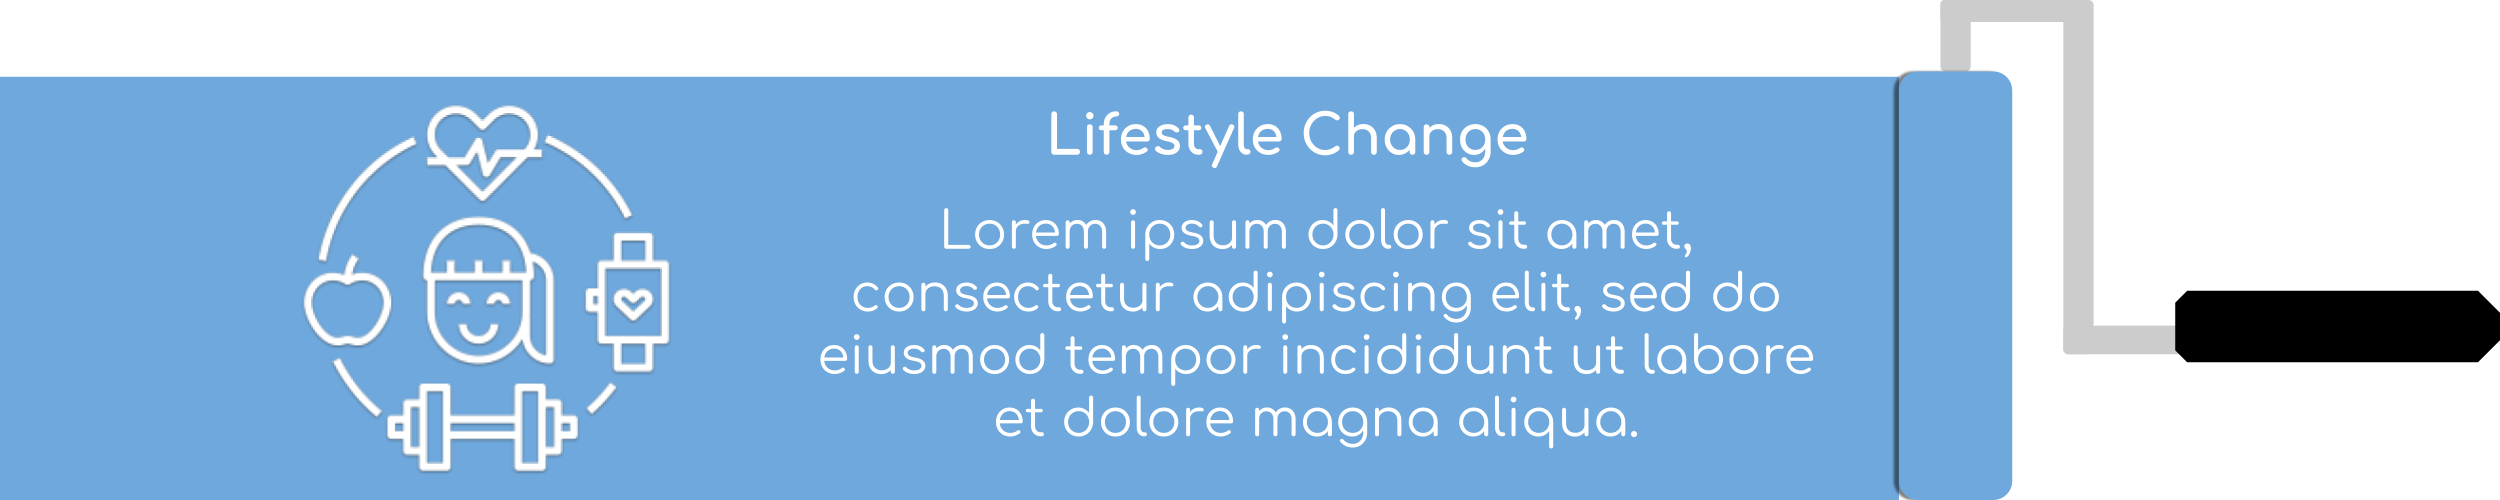
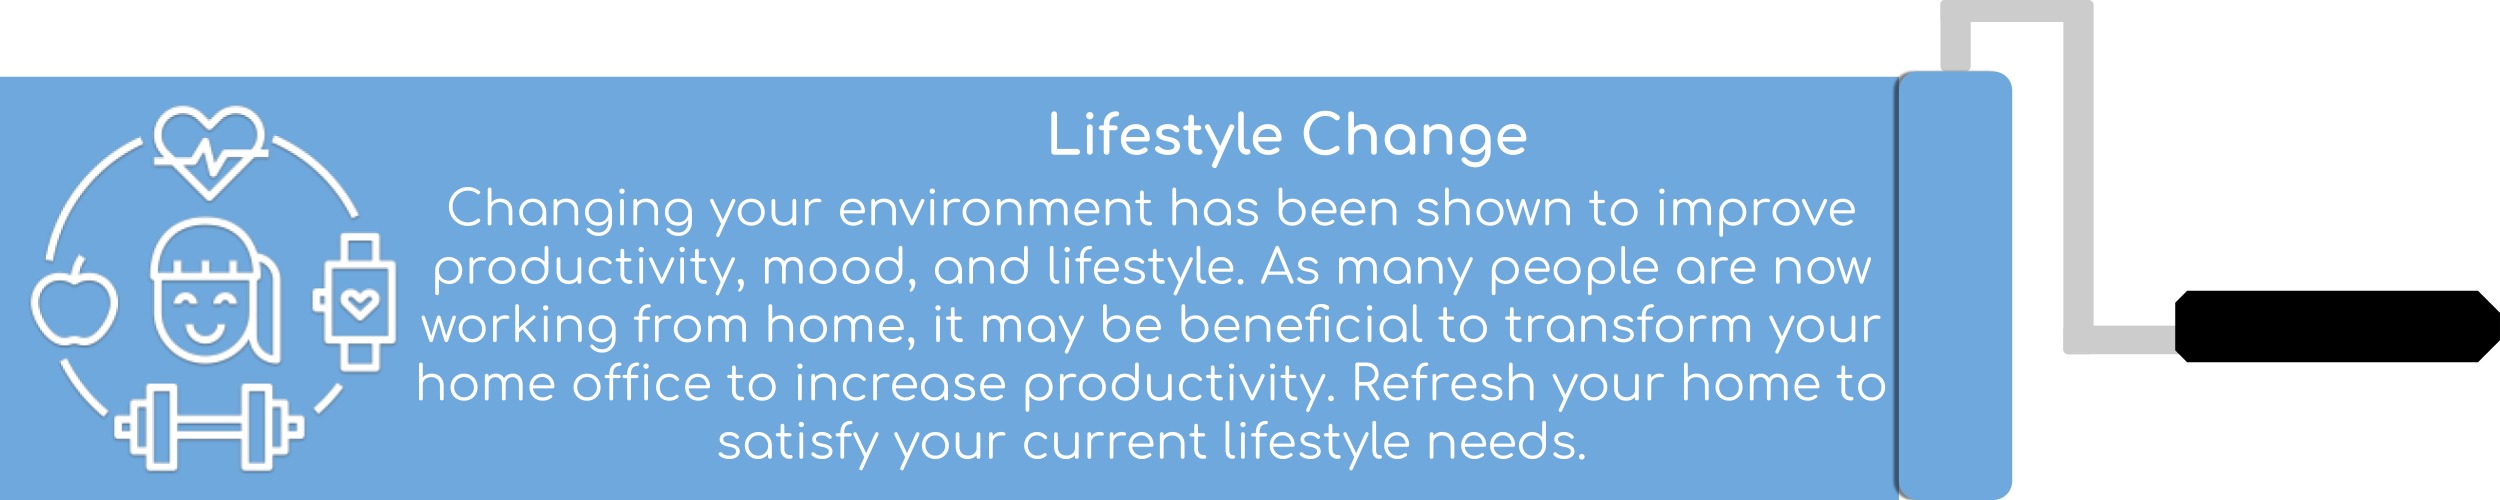
Add files via upload

Changed region(s): [[0.0, 0.21, 0.7488, 0.96]]

diff --git a/index.html b/index.html
@@ -100,19 +100,19 @@ body, html {
       <img src="./images/brush_icon.png" class="w3-margin-bottom w3-jumbo w3-center" style="width:100px;height:100px;">
       <p class="w3-large">Painting</p>
       <p class="w3-medium">Exterior/Interior</p>
-      <p>Lorem ipsum dolor sit amet, consectetur adipiscing elit, sed do eiusmod tempor incididunt ut labore et dolore.</p>
+      <p>Painting is an affordable method to modify the appearance and style of any room. We paint anything, you name it - and we will paint it for both commercial/residential and interior/exterior. Let us transform your property to gain that stunning appearance you are imagining.</p>
     </div>
     <div class="w3-third">
       <img src="./images/hammer_icon.png" class="w3-margin-bottom w3-jumbo w3-center" style="width:100px;height:100px;">
       <p class="w3-large">Remodeling</p>
       <p class="w3-medium">Kitchen/Bathroom</p>
-      <p>Lorem ipsum dolor sit amet, consectetur adipiscing elit, sed do eiusmod tempor incididunt ut labore et dolore.</p>
+      <p>Are you looking to remodel your property? Perhaps you are looking to renovate your home office? We can remodel anything to make your ideas become a reality. Take the first step and call us today for a free estimate on your project.</p>
     </div>
     <div class="w3-third">
       <img src="./images/appliance_icon.png" class="w3-margin-bottom w3-jumbo w3-center" style="width:100px;height:100px;">
       <p class="w3-large">Appliances</p>
       <p class="w3-medium">Install/Fix</p>
-      <p>Lorem ipsum dolor sit amet, consectetur adipiscing elit, sed do eiusmod tempor incididunt ut labore et dolore.</p>
+      <p>We install appliances of all sorts like ceiling fans, fridges, washing machines, etc.</p>
     </div>
   </div>
 </div>
@@ -136,7 +136,7 @@ body, html {
             <i class="fa fa-dollar w3-margin-bottom w3-jumbo w3-center"></i>
             <div class="w3-container">
               <h3>Increase Your Home's Value</h3>
-              <p>Lorem ipsum dolor sit amet, consectetur adipiscing elit, sed do eiusmod tempor incididunt ut labore et dolore.</p>
+              <p>For those who remodel, the average payback in a home’s resale value is 56 percent of the cost of the remodel, but for those who replaced things like garage doors or windows, the payback is a much higher 75 percent.</p>
           </div>
           </center>
         </div>
@@ -147,7 +147,7 @@ body, html {
             <i class="fa fa-smile-o w3-margin-bottom w3-jumbo w3-center"></i>
             <div class="w3-container">
               <h3>Lifestyle Change</h3>
-              <p>Lorem ipsum dolor sit amet, consectetur adipiscing elit, sed do eiusmod tempor incididunt ut labore et dolore.</p>
+              <p>Changing your environment has been shown to improve productivity, mood, and lifestyle. As many people are now working from home, it may be beneficial to transform your home office to increase productivity. Refresh your home to satisfy your current lifestyle needs.</p>
 
           </div>
         </center>
@@ -164,18 +164,20 @@ body, html {
   <h3 class="w3-center w3-xxlarge w3-hide-small"><b><a style="color:#f1c232">——— </a>ABOUT US<a style="color:#f1c232"> ———</a></b></h3>
   <h3 class="w3-center w3-xlarge w3-hide-large w3-hide-medium"><b><a style="color:#f1c232">— </a>ABOUT US <a style="color:#f1c232"> —</a></b></h3>
 
-  <center><p>Lorem ipsum dolor sit amet, consectetur adipiscing elit, sed do eiusmod<br>
-  tempor incididunt ut labore et dolore.</p>
-  <p>Lorem ipsum dolor sit amet, consectetur adipiscing elit, sed do eiusmod<br>
-  tempor incididunt ut labore et dolore.</p></center>
+  <div class="w3-hide-small" >
+    <center><p style="padding:50px 200px">Mario's Remodeling & Painting has proudly served San Antonio for 14 years. Within our years as a company, we have worked with commercial and residential clients on different projects in remodeling and painting. We strive to deliver an excellent final product to all of our customers while making it affordable for you, the customer. We can transform any property and give it a fresh or new look.</p></center>
+  </div>
 
+  <div class="w3-hide-large w3-hide-medium" >
+    <center><p>Mario's Remodeling & Painting has proudly served San Antonio for 14 years. Within our years as a company, we have worked with commercial and residential clients on different projects in remodeling and painting. We strive to deliver an excellent final product to all of our customers while making it affordable for you, the customer. We can transform any property and give it a fresh or new look.</p></center>
+  </div>
   <center>
     <div class="w3-card w3-hide-small" style = "width:30%;height:30%;">
       <img src="./images/person-placeholder.jpeg" alt="Owner" style="width:50%;height:50%;">
       <div class="w3-container">
         <h3>Mario De Jesus</h3>
         <p class="w3-opacity">Owner</p>
-        <p>Phasellus eget enim eu lectus faucibus vestibulum. Suspendisse sodales pellentesque elementum.</p>
+        <p>My name is Mario De Jesus - I am the owner of Mario's Remodeling & Painting. I created this company to provide others with an opportunity to improve their home at an affordable price. I have been working in the home improvement industry for over 15 years. I began as a maintenance worker at an apartment complex, where I would fix and make improvements. I was always fascinated to see the final product, and I loved developing my skills further to do more elaborate projects. In my free time, I love to grill and play soccer.</p>
       </div>
 
     </div>
@@ -185,7 +187,7 @@ body, html {
       <div class="w3-container">
         <h3>Mario De Jesus</h3>
         <p class="w3-opacity">Owner</p>
-        <p>Phasellus eget enim eu lectus faucibus vestibulum. Suspendisse sodales pellentesque elementum.</p>
+        <p>My name is Mario De Jesus - I am the owner of Mario's Remodeling & Painting. I created this company to provide others with an opportunity to improve their home at an affordable price. I have been working in the home improvement industry for over 15 years. I began as a maintenance worker at an apartment complex, where I would fix and make improvements. I was always fascinated to see the final product, and I loved developing my skills further to do more elaborate projects. In my free time, I love to grill and play soccer.</p>
       </div>
 
     </div>
@@ -224,7 +226,7 @@ body, html {
               <i class="fa fa-phone w3-margin-bottom w3-jumbo w3-center"></i>
               <div class="w3-container">
                 <p>Phone Number: (210) 240-2662</p>
-                <p><button class="w3-button w3-block" style="background-color:#f1c232;width:50%;height:50%;">Call Us</button></p>
+                <p><a href="tel:2103075408"><button class="w3-button w3-block" style="background-color:#f1c232;width:50%;height:50%;">Call Us</button></a></p>
             </div>
             </center>
           </div>
@@ -235,7 +237,7 @@ body, html {
               <i class="fa fa-envelope w3-margin-bottom w3-jumbo w3-center"></i>
               <div class="w3-container">
                 <p>Email: mremodeling4624@att.net</p>
-                <p><button class="w3-button w3-block" style="background-color:#f1c232;width:50%;height:50%;">Email Us</button></p>
+                <p><a href="mailto:mremodeling4624@att.net"><button class="w3-button w3-block" style="background-color:#f1c232;width:50%;height:50%;">Email Us</button></a></p>
             </div>
           </center>
           </div>
